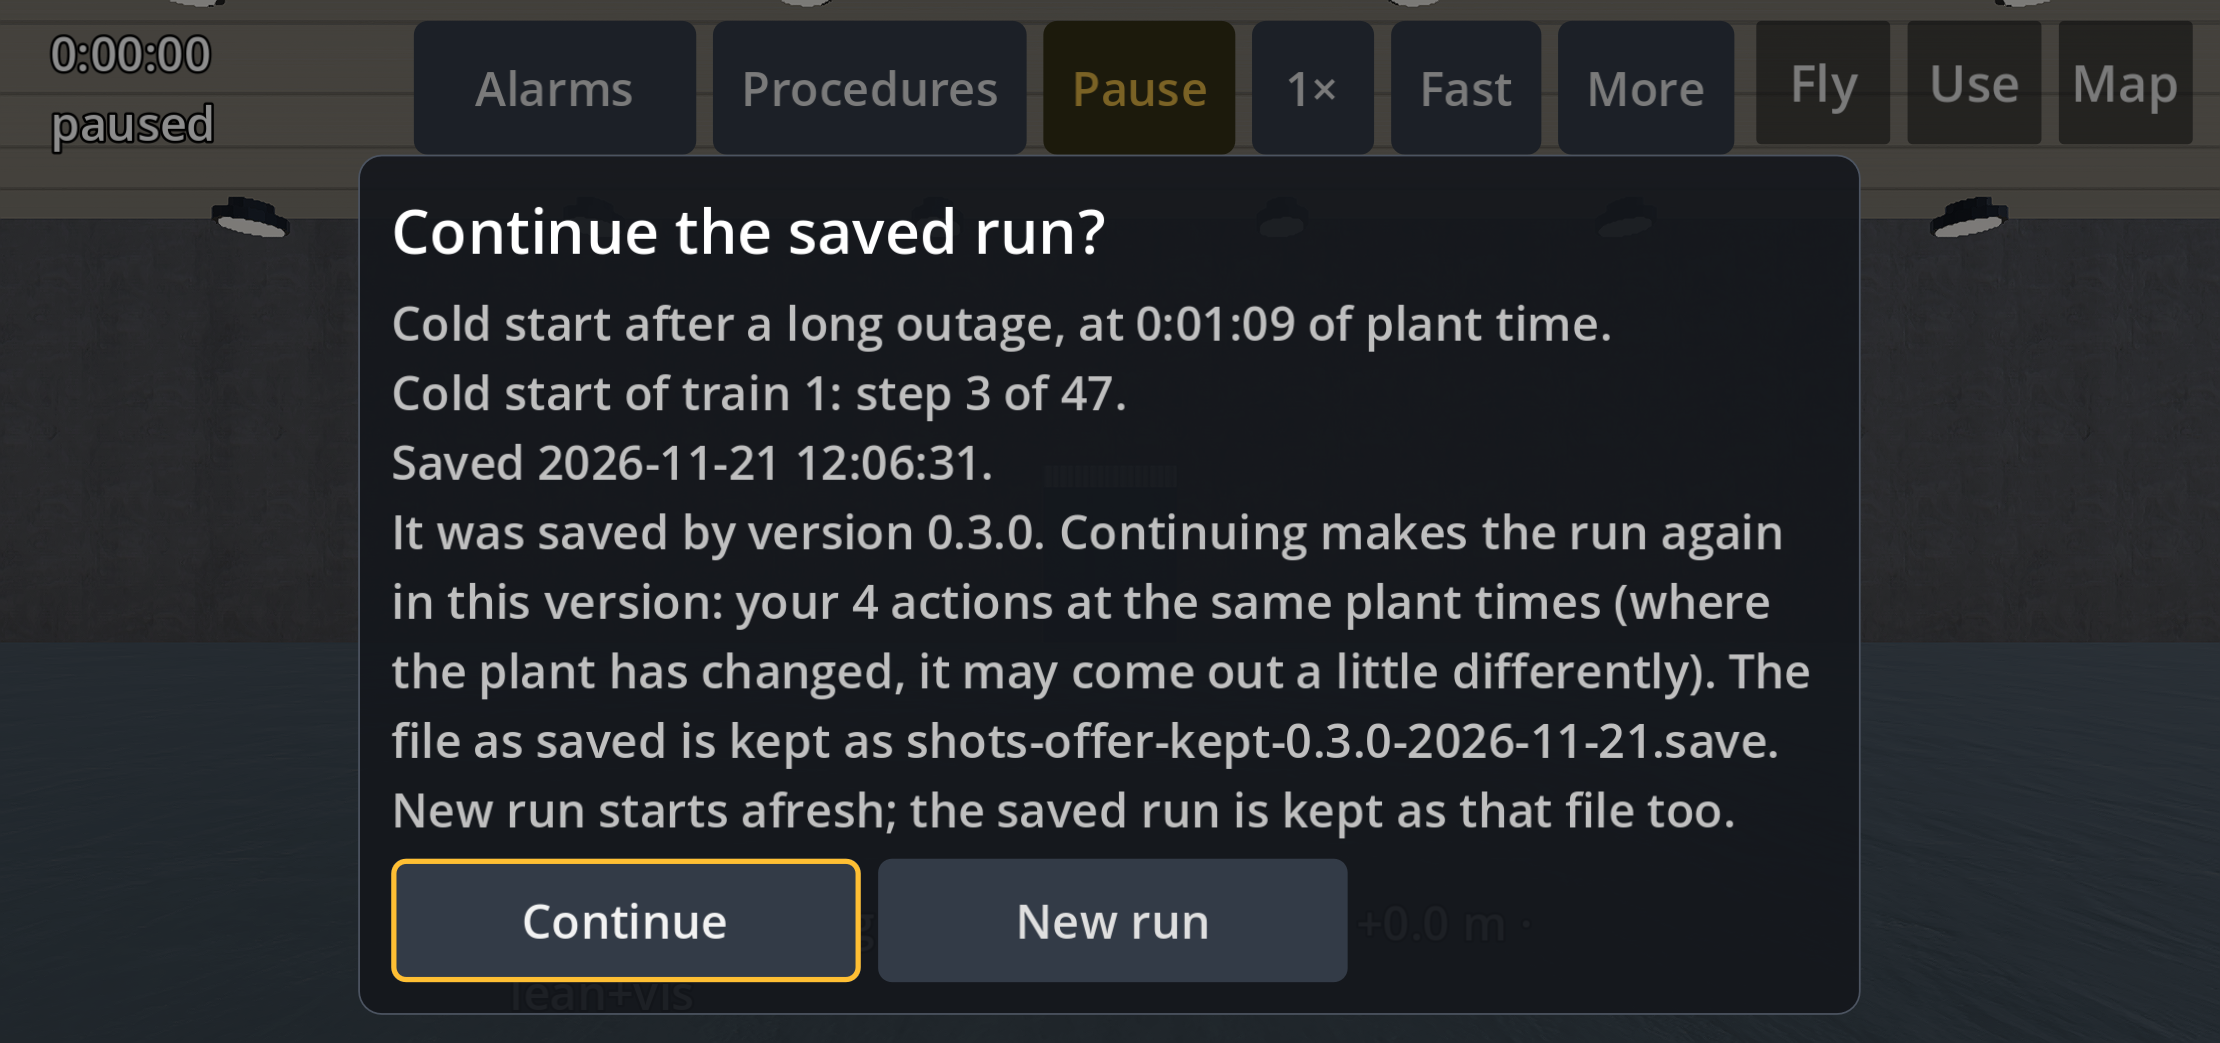
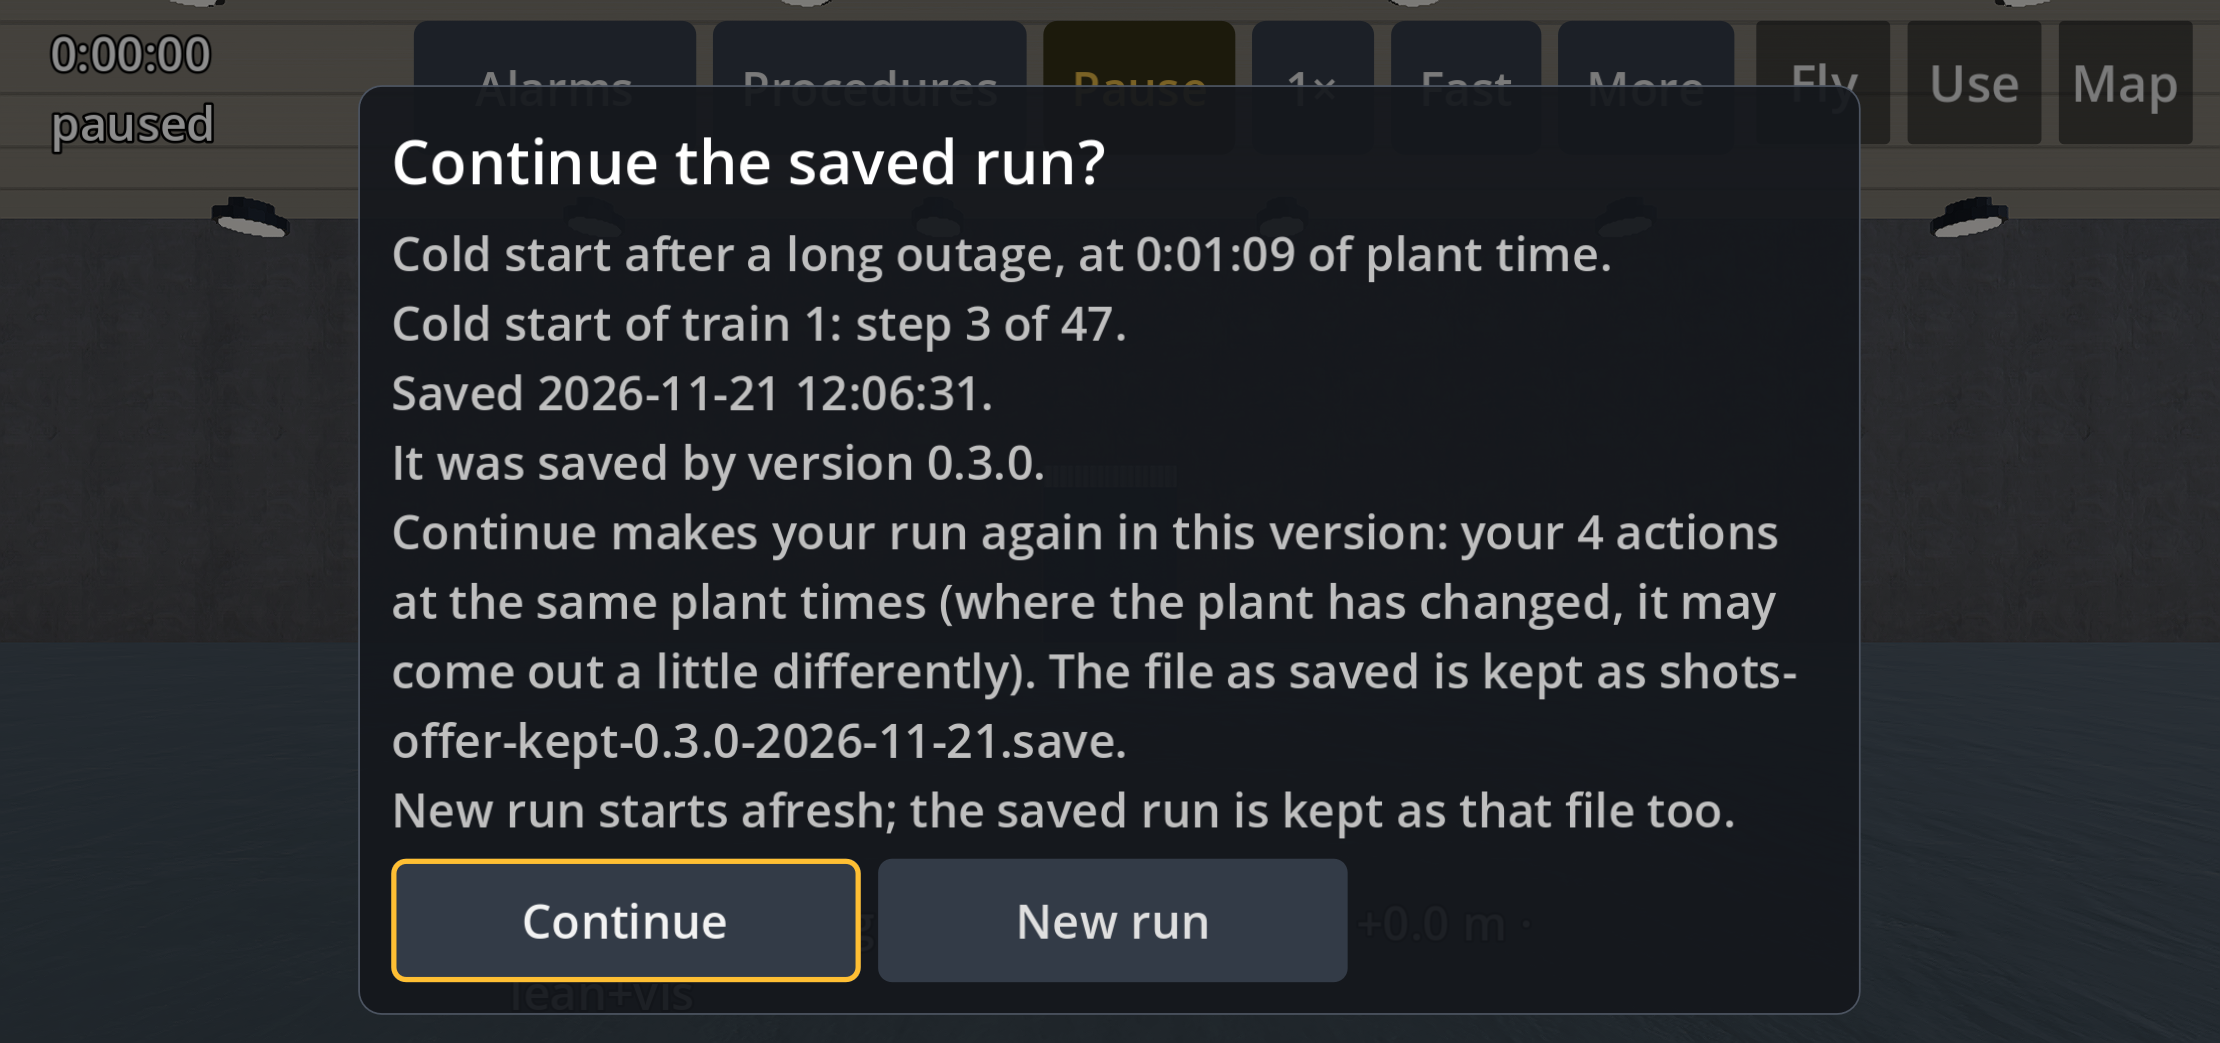
UX evidence for PR #471, round 2: the new states, the baseline from main, hashes

Changed region(s): [[0.1554, 0.4909, 0.8081, 0.7363], [0.1554, 0.0614, 0.8392, 0.3988], [0.1554, 0.4295, 0.4662, 0.4602]]

diff --git a/MANIFEST.md b/MANIFEST.md
@@ -1,16 +1,40 @@
-# UX evidence for PR #471 (issue #447)
+# UX evidence for PR #471 (issue #447), round 2
 
-Synthetic only: Walkdown Plant's invented plant; the save is tests/fixtures/run-0.3.0.save (written by plant-v0.3.0's autosave).
-Made by `apps/plant3d/tests/save_offer_shots.gd` under `tools/plant3d/bench/offscreen.sh` (a private headless mutter),
-at commit of branch plant-save-survives, Linux, Vulkan (Iris Xe).
+Synthetic only: Walkdown Plant's invented plant. Made at branch commit a920be82a418bbbc405a72dddb11c7eab0011f56 by `apps/plant3d/tests/save_offer_shots.gd` under `tools/plant3d/bench/offscreen.sh` (headless mutter), Linux, Vulkan (Iris Xe), the switch forced on/off by the script.
+Fixture: tests/fixtures/run-0.3.0.save sha256 1b7cded093fcd3f1db474810e4030492d8294d53f0d95db7d7c49707f0a00840 (written by plant-v0.3.0's own autosave, tools/plant3d/old_saves/).
 
-| Folder | Window | UI size |
-|---|---|---|
-| 1600x900 | 1600 × 900 | default (100 %) |
-| 1366x768-ui200 | 1366 × 768 | 200 % (the largest) |
-| 2220x1080-phone | 2220 × 1080 | phone layout (density 420 default, as the Note 9) |
+- `before-main/`: the same fixture on origin/main's offer code (the released baseline: autosave.gd and run_save.gd unchanged from main in that checkout), 1600x900: the panel runs off the screen (fixed here, always on).
+- `1600x900/` (100 %), `1366x768-ui200/` (UI size 200 %), `2220x1080-phone/` (phone layout): off-old-release (switch off), on-old-release-offer, on-old-release-making-again (progress line, slice forced small; New run holds the focus Continue had), on-old-release-continued, on-cannot-continue, on-made-again-refused (made again, then refused: New run focused), on-copy-aside-failed (Replace it focused), on-own-save, on-damaged.
+- Not made: the accessibility tree (plant_a5.py under a headless GNOME session; not run, memory budget).
 
-Shots in each: `off-old-release` (switch off: the baseline, plant-v0.3.0's refusal; note the panel no longer runs off
-the screen, a fix that is always on), `on-old-release-offer`, `on-old-release-continued` (the toast naming the kept file),
-`on-cannot-continue` (kept aside with its reason), `on-own-save` (this build's save: New run's new line), `on-damaged`.
-Not shot: the "Making the run again: N %" progress line (the 0.3.0 run is made again within one frame's slice).
+## sha256
+```
+a664a477fc91fe8212fe52d5bdce04f28699cf7aa39b7842421ca259dc2e7470  ./1366x768-ui200/desk_ui2_off-old-release.png
+5504d27c82e06e9035d7c9ce3186daa22e40cc74f797c7398375cddb4448481a  ./1366x768-ui200/desk_ui2_on-cannot-continue.png
+7fa6a8589ebd8f0512dc4b0cfa243f5f0f0192f40f13c272bcdd526e0763bfb6  ./1366x768-ui200/desk_ui2_on-copy-aside-failed.png
+c1a7e7edb72d48b7425efbf8e81c17387e3252931298fc6cf0bf8e550f66b39b  ./1366x768-ui200/desk_ui2_on-damaged.png
+1cf129fe4c4c57d2434eb8b958217fab0718acd11f79001582f97b1e217c7813  ./1366x768-ui200/desk_ui2_on-made-again-refused.png
+3f9b6d4fc3c7fbce06bcb3e894771d43c6c1c29e4637155ecee2ad8d35a6a31e  ./1366x768-ui200/desk_ui2_on-old-release-continued.png
+1fecdede7c05ed7cc68393693e6d20adb79abe6770c066146a603895d6963dc0  ./1366x768-ui200/desk_ui2_on-old-release-making-again.png
+5fab93d59a91dee11749260ca639bc305d31c98809d34ab67879ea221123c818  ./1366x768-ui200/desk_ui2_on-old-release-offer.png
+5d7e41943128fb9f3dc391ed06ba9ddc26a54012e2f45e0b32a9022f873dd6c5  ./1366x768-ui200/desk_ui2_on-own-save.png
+01b9b11a242548b9e05b5edbc063c7d6906805cc4a1753d13bc3dc96f655685f  ./1600x900/desk_uidefault_off-old-release.png
+13cc4cc50f643a93ae5406512bca269789e4ffe832c947e508652908cfc3d594  ./1600x900/desk_uidefault_on-cannot-continue.png
+2212f829909905bb52d9281c8b37b753fa8013f1a5fadd07be948512f9df0921  ./1600x900/desk_uidefault_on-copy-aside-failed.png
+b19bb6cc6d8c00e60efcc6205be77b8aa2fa3218102fcc49f53ba04d73de63f9  ./1600x900/desk_uidefault_on-damaged.png
+8e2393387611a1bdf1b0fc9fe79e8a17d57b57ede294a2415916ad03908e6934  ./1600x900/desk_uidefault_on-made-again-refused.png
+8b3ae5ea46ddecacdd3390e93b7fbda628c684dbc4cf33bc9a9e966985b27fee  ./1600x900/desk_uidefault_on-old-release-continued.png
+de97e74da8adbdc132d77ba03f2ca7a44927b137a07359fd69969d0015952c8a  ./1600x900/desk_uidefault_on-old-release-making-again.png
+d9d6f8ffaa4d35136a7e197017a6af7740480c4959a74afccf12e331f365fc0b  ./1600x900/desk_uidefault_on-old-release-offer.png
+fbbbcbfcdf079114aed1d40acb61c658f0939f7c4ef00ce22092aa0c58a15db7  ./1600x900/desk_uidefault_on-own-save.png
+2d35e4b320be8234ba96adec1020d75b4e173cf027e67cf5a8ad60d798806419  ./2220x1080-phone/phone_uidefault_off-old-release.png
+89295fb66d06877e562f4509350da28344e5e1fc00797f36d519c293d354b38f  ./2220x1080-phone/phone_uidefault_on-cannot-continue.png
+edc10d3b658bc7265d3ba8057f915319271a00f0b55bacbd5969162c948e162c  ./2220x1080-phone/phone_uidefault_on-copy-aside-failed.png
+38fc5bf60406948c29d20b8ac032e83949830dc98eecdb77b0d762cce2a62e13  ./2220x1080-phone/phone_uidefault_on-damaged.png
+d58002a1aa83b455eee7fe82b7672dda670831cc3199322821d40185d4f95bf5  ./2220x1080-phone/phone_uidefault_on-made-again-refused.png
+9d04f6597c7481a9bbaf70bba4e2edb99a8fbf8189308a650d818602238988bb  ./2220x1080-phone/phone_uidefault_on-old-release-continued.png
+fefdb9188733745bc84af890e64af9ff626423690bdc95a35e6e399308d0f278  ./2220x1080-phone/phone_uidefault_on-old-release-making-again.png
+8bfaaf33759c5e031f9073a5bf77ec1ba6e530d723a81f5a44bfd8a792e4006e  ./2220x1080-phone/phone_uidefault_on-old-release-offer.png
+7223f989b5eae4cded4fdc09be2b198683419a552357683470b2505f9cd4d8da  ./2220x1080-phone/phone_uidefault_on-own-save.png
+f627948181c3ab8d59c9b9b9347fccbc229485f05cec9a2e53d1bbf8d646523c  ./before-main/desk_uidefault_main-old-release.png
+```
